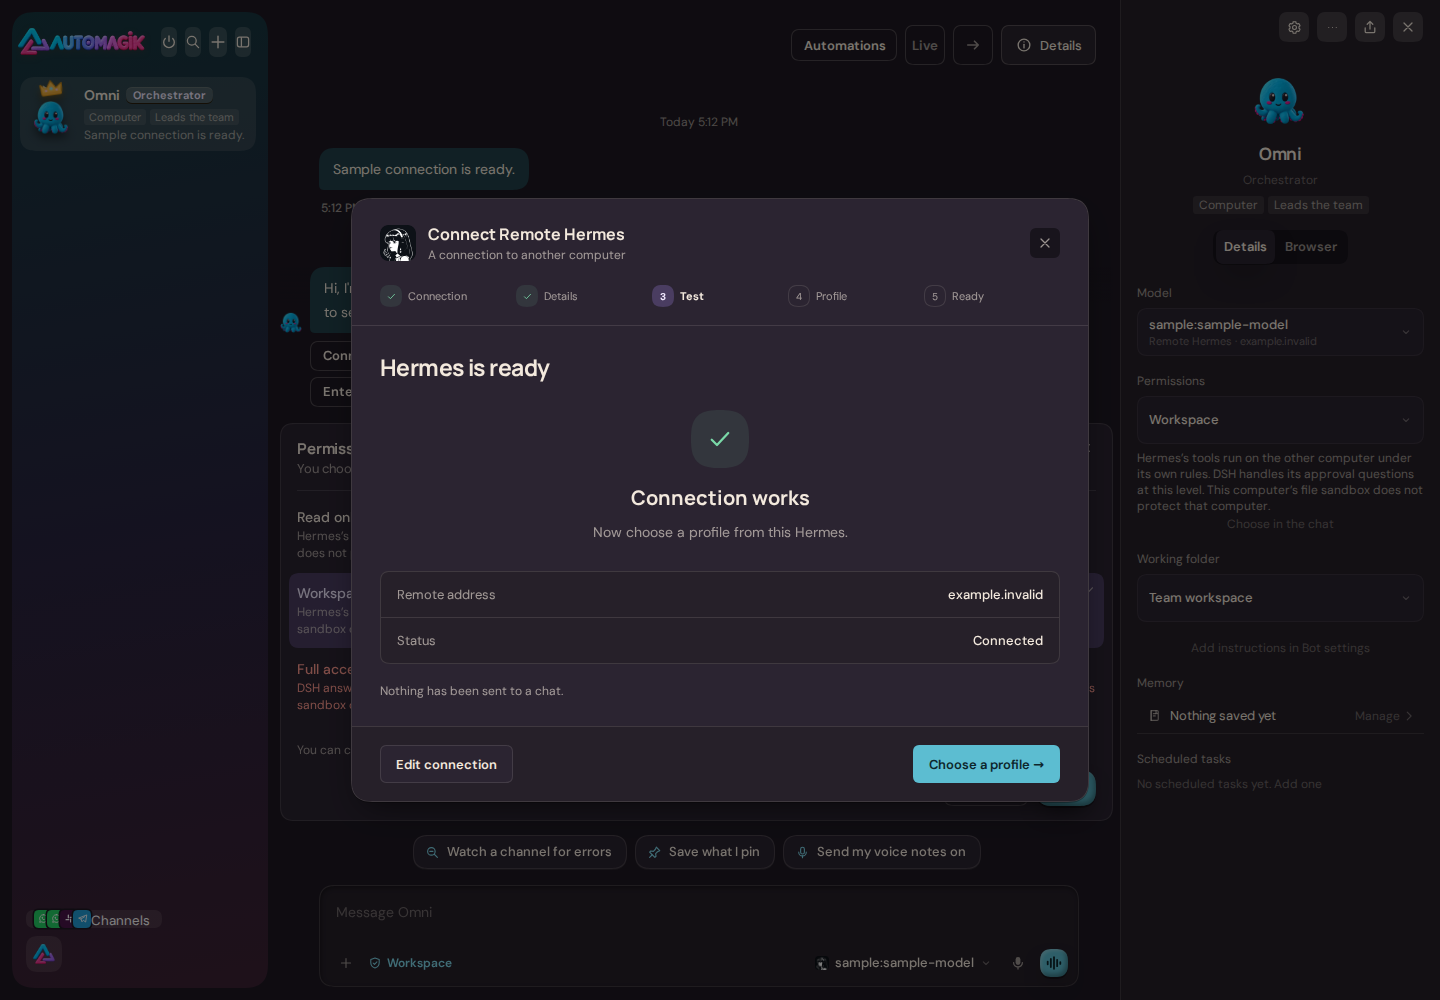
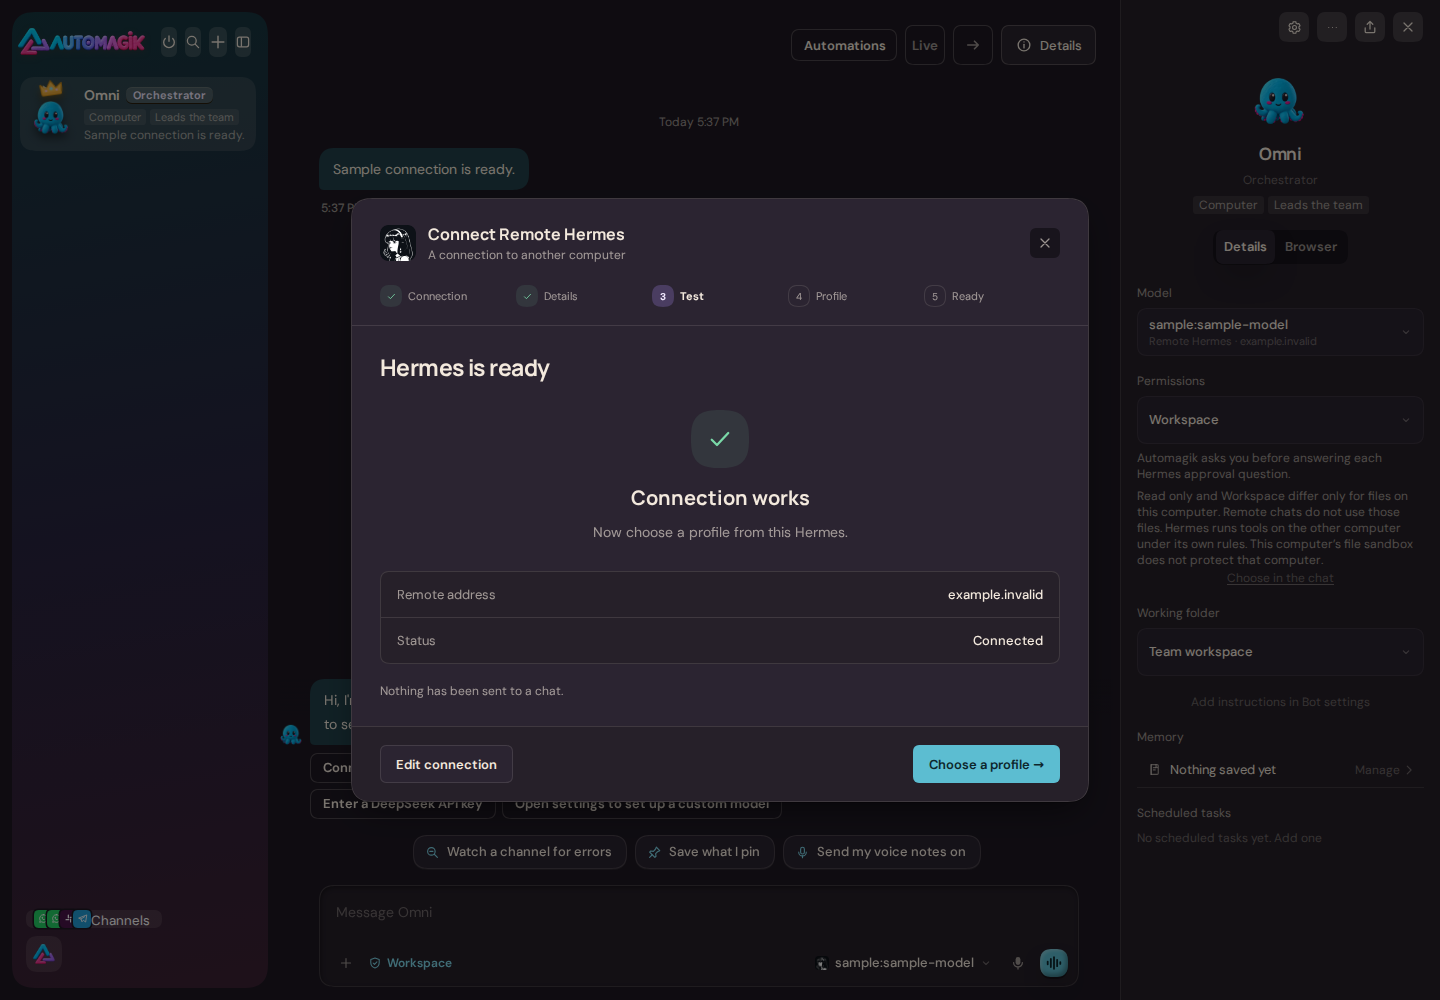
docs(bots): refresh Hermes permission wording captures
Retake the 23 affected frames and retain eleven unchanged light-theme captures.
Record the working chat-choice control, shared caveat and exact bundle provenance.
Keep both screenshot folders for the next owner review.

diff --git a/docs/pr/1070-shots/README.md b/docs/pr/1070-shots/README.md
@@ -1,12 +1,14 @@
 # Temporary PR 1075 real-app wizard captures
 
 These are the running app's light and dark themes, using the approved Remote Hermes wizard
-and its actual host endpoints. The earlier four captures are replaced by every setup step,
-returning one-click access, Settings, and the sign-in/SSH error variants. The owner-review
-refinement gives each error matching guidance, names the route once beside its profile, and
-explains Remote Hermes permissions through remote approval handling. Dev's new Details
-permission selector changes the surrounding app in every prior frame, so all 34 were affected
-and refreshed on the merged tree.
+and its actual host endpoints. This wording-only round refreshes 23 affected frames: every dark
+frame, plus light 06b, 07 and 04d–04g, where the updated permission text or control is visible.
+The other 11 light frames keep the unchanged images from the prior reviewed capture.
+
+Read only and Workspace both ask before each Hermes approval. Their difference applies only to
+this computer's own files. Full access answers yes once; Auto review does not review Hermes
+questions. The shared remote caveat appears once below each permission surface, and the
+underlined “Choose in the chat” control was exercised through dismiss and reopen in the app.
 
 | State | Light | Dark |
 | --- | --- | --- |
@@ -39,13 +41,19 @@ The actual wizard exercised dashboard sign-in, profile refresh/pick/save, rememb
 connection, SSH test/cleanup, and actionable auth/host-key failures. Password fields were masked;
 the probe checked that one-use sign-in values were absent from all isolated app-home files.
 The installed client bundle matched the checkout byte for byte (SHA-256):
[1 lines of base64/hex data omitted]
+
+The retained light frames are byte-identical to commit
+`1852fbd855f458b132e79c3676c7adb5abdbffc7`, captured from source
+`7727147d06fc722e68a73bbd31044cc55fa50fe0` with bundle SHA-256
[1 lines of base64/hex data omitted]
+Their native, unconfigured background and wizard content are unchanged by this round.
 
 Viewport: 1440 × 1000; locale: English; the app's own fonts and theme variables. Screenshots
-finish finite menu animations and keep the real app around the wizard. The boot and capture
-probe exited successfully with no page exceptions; its owned process groups and fake SSH
-processes were stopped. These captures establish appearance and the asserted interactions;
-they do not establish a clean browser console.
+finish finite menu animations and keep the real app around the wizard. The final boot and capture
+probe exited successfully with no recorded console errors or page exceptions; its owned process
+groups and fake SSH processes were stopped. The retained images keep their earlier provenance
+and are unchanged by this wording round.
 
 Keep this folder and `../1070-wizard-mock` for the orchestrator's review before the owner's
 real-app look. Remove both temporary folders only in the later pre-merge commit after review.
